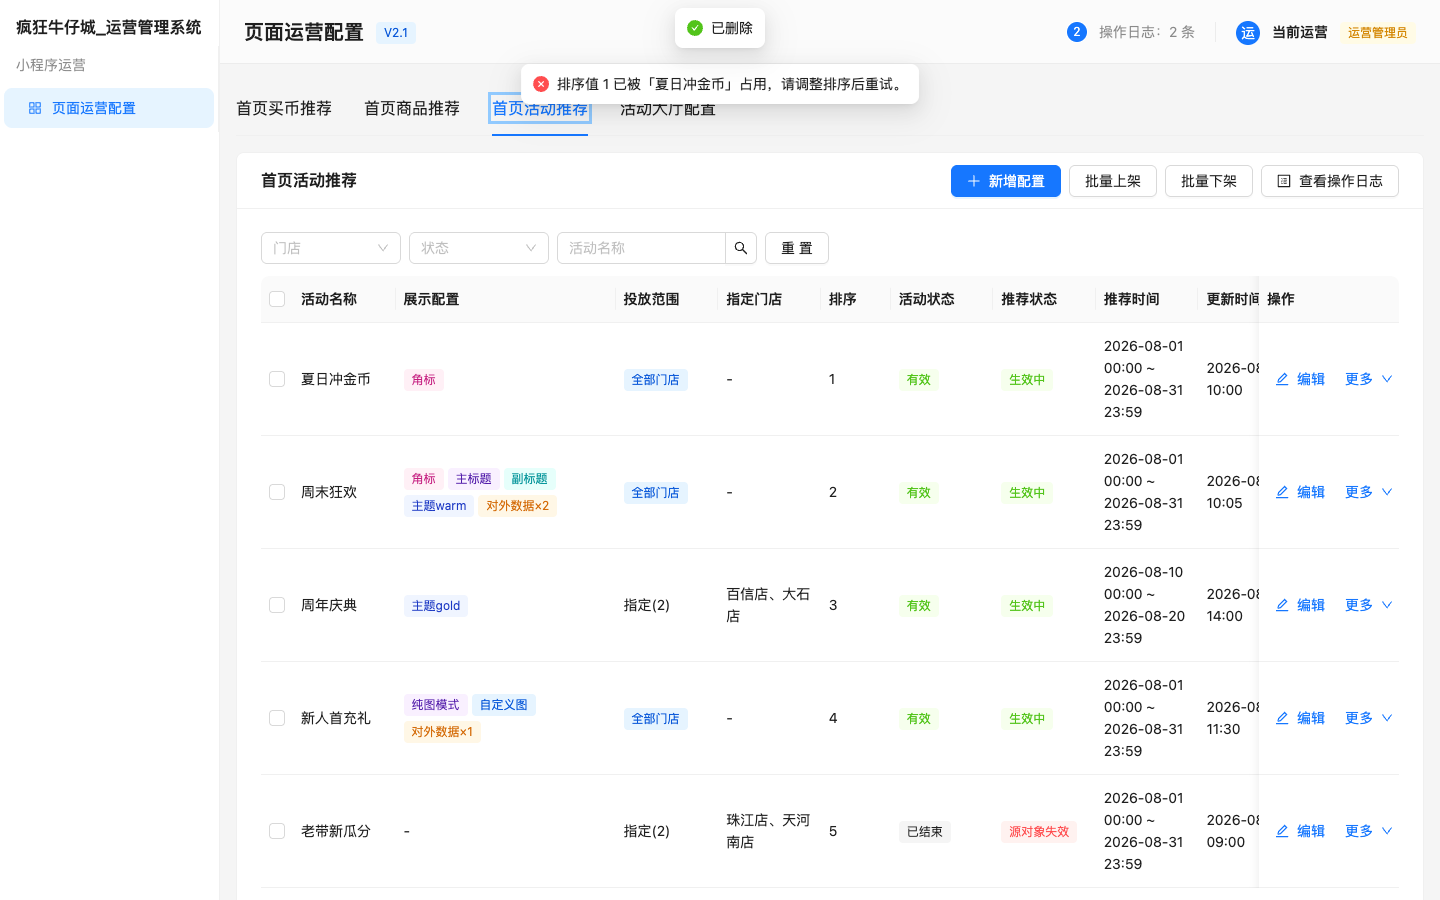
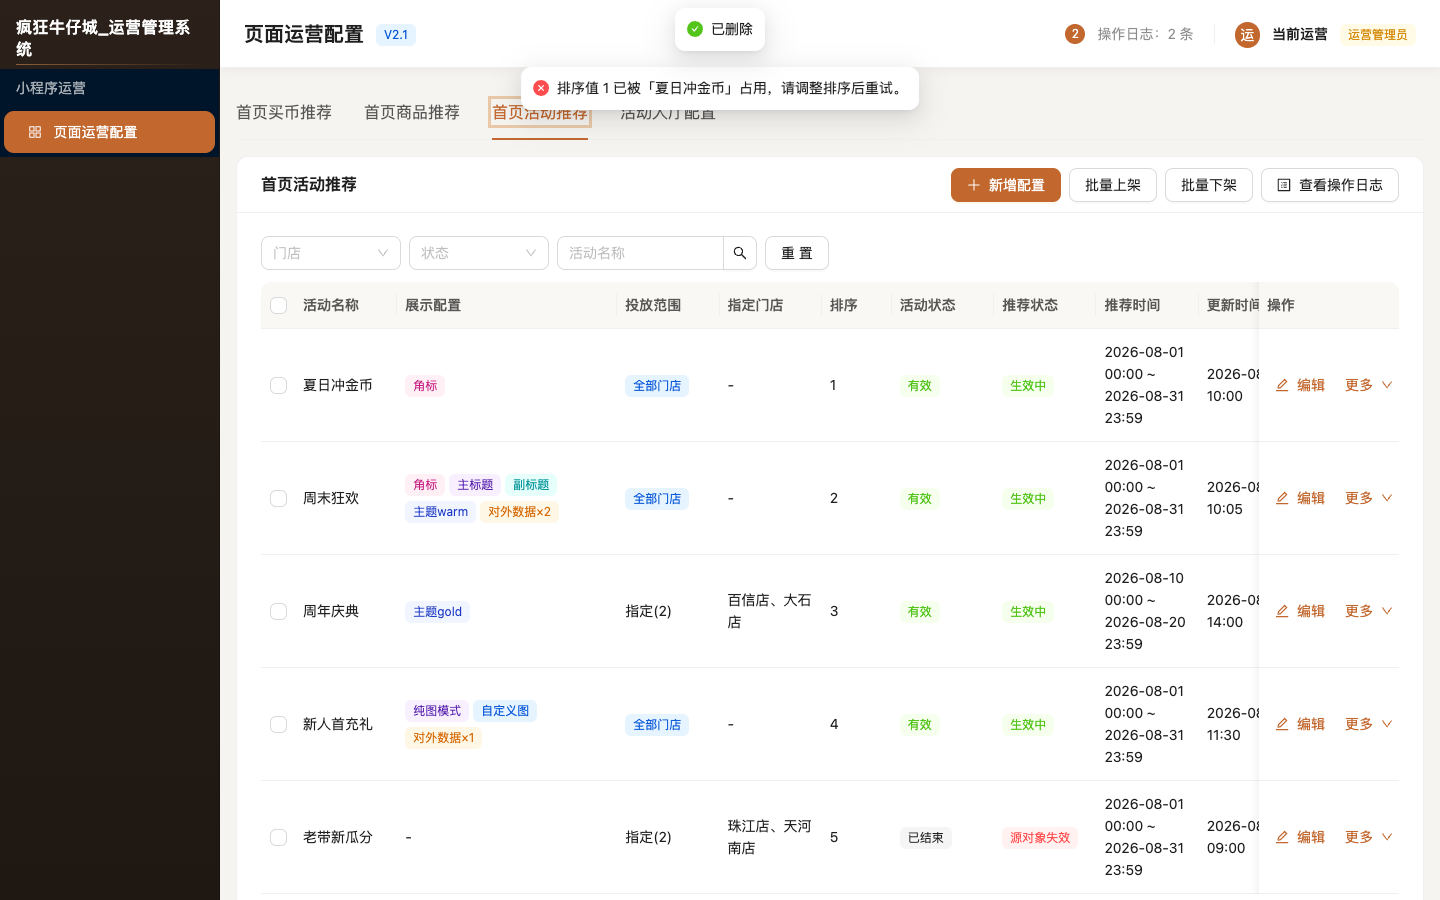
style: 品牌视觉升级——牛仔棕橙主题、深色侧边栏、圆角卡片与表格，全测试通过

diff --git a/src/index.css b/src/index.css
@@ -19,19 +19,18 @@ body,
 }
 
 .app-sider {
-  background: #fff;
-  border-right: 1px solid rgba(5, 5, 5, 0.06);
+  background: linear-gradient(180deg, #2b211a 0%, #1d1611 100%);
+  border-right: 1px solid rgba(0, 0, 0, 0.2);
 }
 
 .app-header {
-  background: rgba(255, 255, 255, 0.6);
-  backdrop-filter: blur(8px);
-  -webkit-backdrop-filter: blur(8px);
+  background: #ffffff;
   padding: 0 24px;
   display: flex;
   align-items: center;
   justify-content: space-between;
   border-bottom: 1px solid rgba(5, 5, 5, 0.06);
+  box-shadow: 0 2px 10px rgba(60, 40, 20, 0.06);
   position: sticky;
   top: 0;
   z-index: 10;
@@ -43,9 +42,24 @@ body,
 }
 
 .app-logo-title {
-  color: rgba(0, 0, 0, 0.88);
+  color: #fff;
   font-size: 16px;
   font-weight: 600;
+  letter-spacing: 0.5px;
+}
+
+.app-logo {
+  position: relative;
+}
+
+.app-logo::after {
+  content: '';
+  position: absolute;
+  left: 16px;
+  right: 16px;
+  bottom: 4px;
+  height: 1px;
+  background: linear-gradient(90deg, rgba(232, 155, 92, 0.5), rgba(232, 155, 92, 0));
 }
 
 .app-logo-sub {

diff --git a/src/App.jsx b/src/App.jsx
@@ -132,6 +132,7 @@ export default function App() {
           <div className="app-logo-title">疯狂牛仔城_运营管理系统</div>
         </div>
         <Menu
+          theme="dark"
           mode="inline"
           defaultSelectedKeys={['page']}
           items={[
@@ -150,10 +151,10 @@ export default function App() {
             <Tag color="blue">V2.1</Tag>
           </Space>
           <Space size={12}>
-            <Badge count={logs.length} showZero color="#1677ff" />
+            <Badge count={logs.length} showZero color="#C2682E" />
             <Typography.Text type="secondary">操作日志：{logs.length} 条</Typography.Text>
             <Divider type="vertical" style={{ height: 20 }} />
-            <Avatar style={{ backgroundColor: '#1677ff', verticalAlign: 'middle' }} size="small">
+            <Avatar style={{ backgroundColor: '#C2682E', verticalAlign: 'middle' }} size="small">
               运
             </Avatar>
             <Typography.Text strong>当前运营</Typography.Text>

diff --git a/src/main.jsx b/src/main.jsx
@@ -15,8 +15,20 @@ ReactDOM.createRoot(document.getElementById('root')).render(
       locale={zhCN}
       theme={{
         token: {
-          colorPrimary: '#1677ff',
-          borderRadius: 6,
+          colorPrimary: '#C2682E',
+          colorLink: '#C2682E',
+          borderRadius: 8,
+          fontSize: 14,
+          colorBgLayout: '#f6f4f1',
+          controlHeight: 34,
+          boxShadowSecondary: '0 6px 20px rgba(60, 40, 20, 0.10)',
+          colorTextHeading: 'rgba(0, 0, 0, 0.88)',
+        },
+        components: {
+          Card: { borderRadiusLG: 12 },
+          Table: { headerBg: '#faf8f5', headerColor: 'rgba(0,0,0,0.65)', rowHoverBg: '#fbf4ee' },
+          Menu: { itemBg: 'transparent', itemSelectedBg: 'rgba(194, 104, 46, 0.16)', itemSelectedColor: '#E89B5C' },
+          Tabs: { inkBarColor: '#C2682E', itemSelectedColor: '#C2682E', itemColor: 'rgba(0,0,0,0.65)' },
         },
       }}
     >

diff --git a/.workbuddy/memory/2026-08-15.md b/.workbuddy/memory/2026-08-15.md
@@ -28,3 +28,12 @@
   - 操作列宽度从 260 缩至 140。
 - `index.html`：移除 emoji favicon，改用空 data URI `data:,` 避免 404。
 - 测试更新：`activity-test.mjs` 26/26，`product-img-test.mjs` 18/18 全绿。
+
+## 12:02 代码上传 GitHub
+- 项目初始化 git 仓库（main 分支），首次提交 43 个文件，`.gitignore` 排除 node_modules/dist。
+- 远程仓库：`github-obsidian:YIXIU-Git/cowboy-ops-admin.git`（私有），通过用户已有的 SSH 别名 `github-obsidian` 推送成功。
+- 另：后台已通过 CloudStudio 云端部署，分享链接 https://21a420554c3c4016a8a4ea554025800d.app.workbuddy.link（免费、临时预览用）。
+
+## 13:00 GitHub Pages 方案放弃
+- 用户担心公开仓库泄露代码，最终选择方案 A：仓库保持私有，不开 Pages，同事访问走 CloudStudio 云端链接。
+- 已清理远程/本地的 gh-pages 分支。
